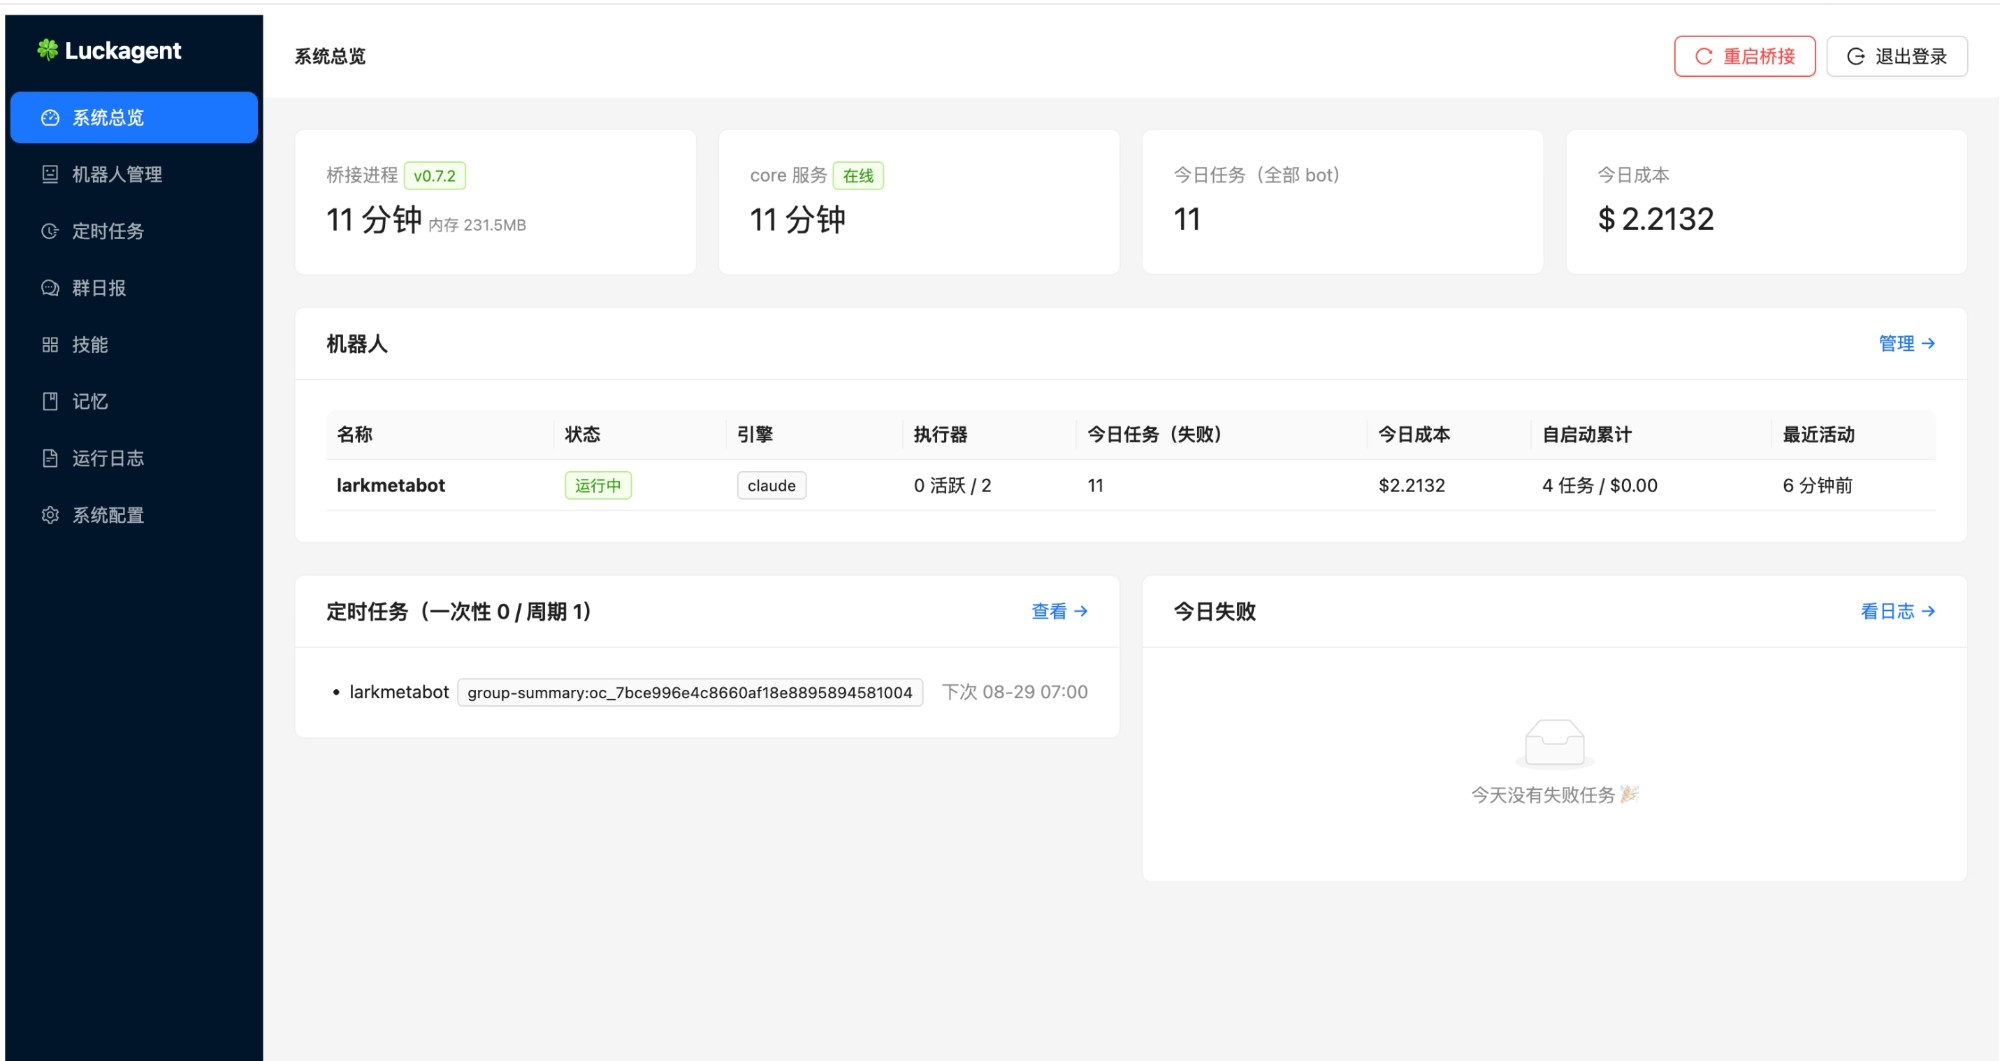
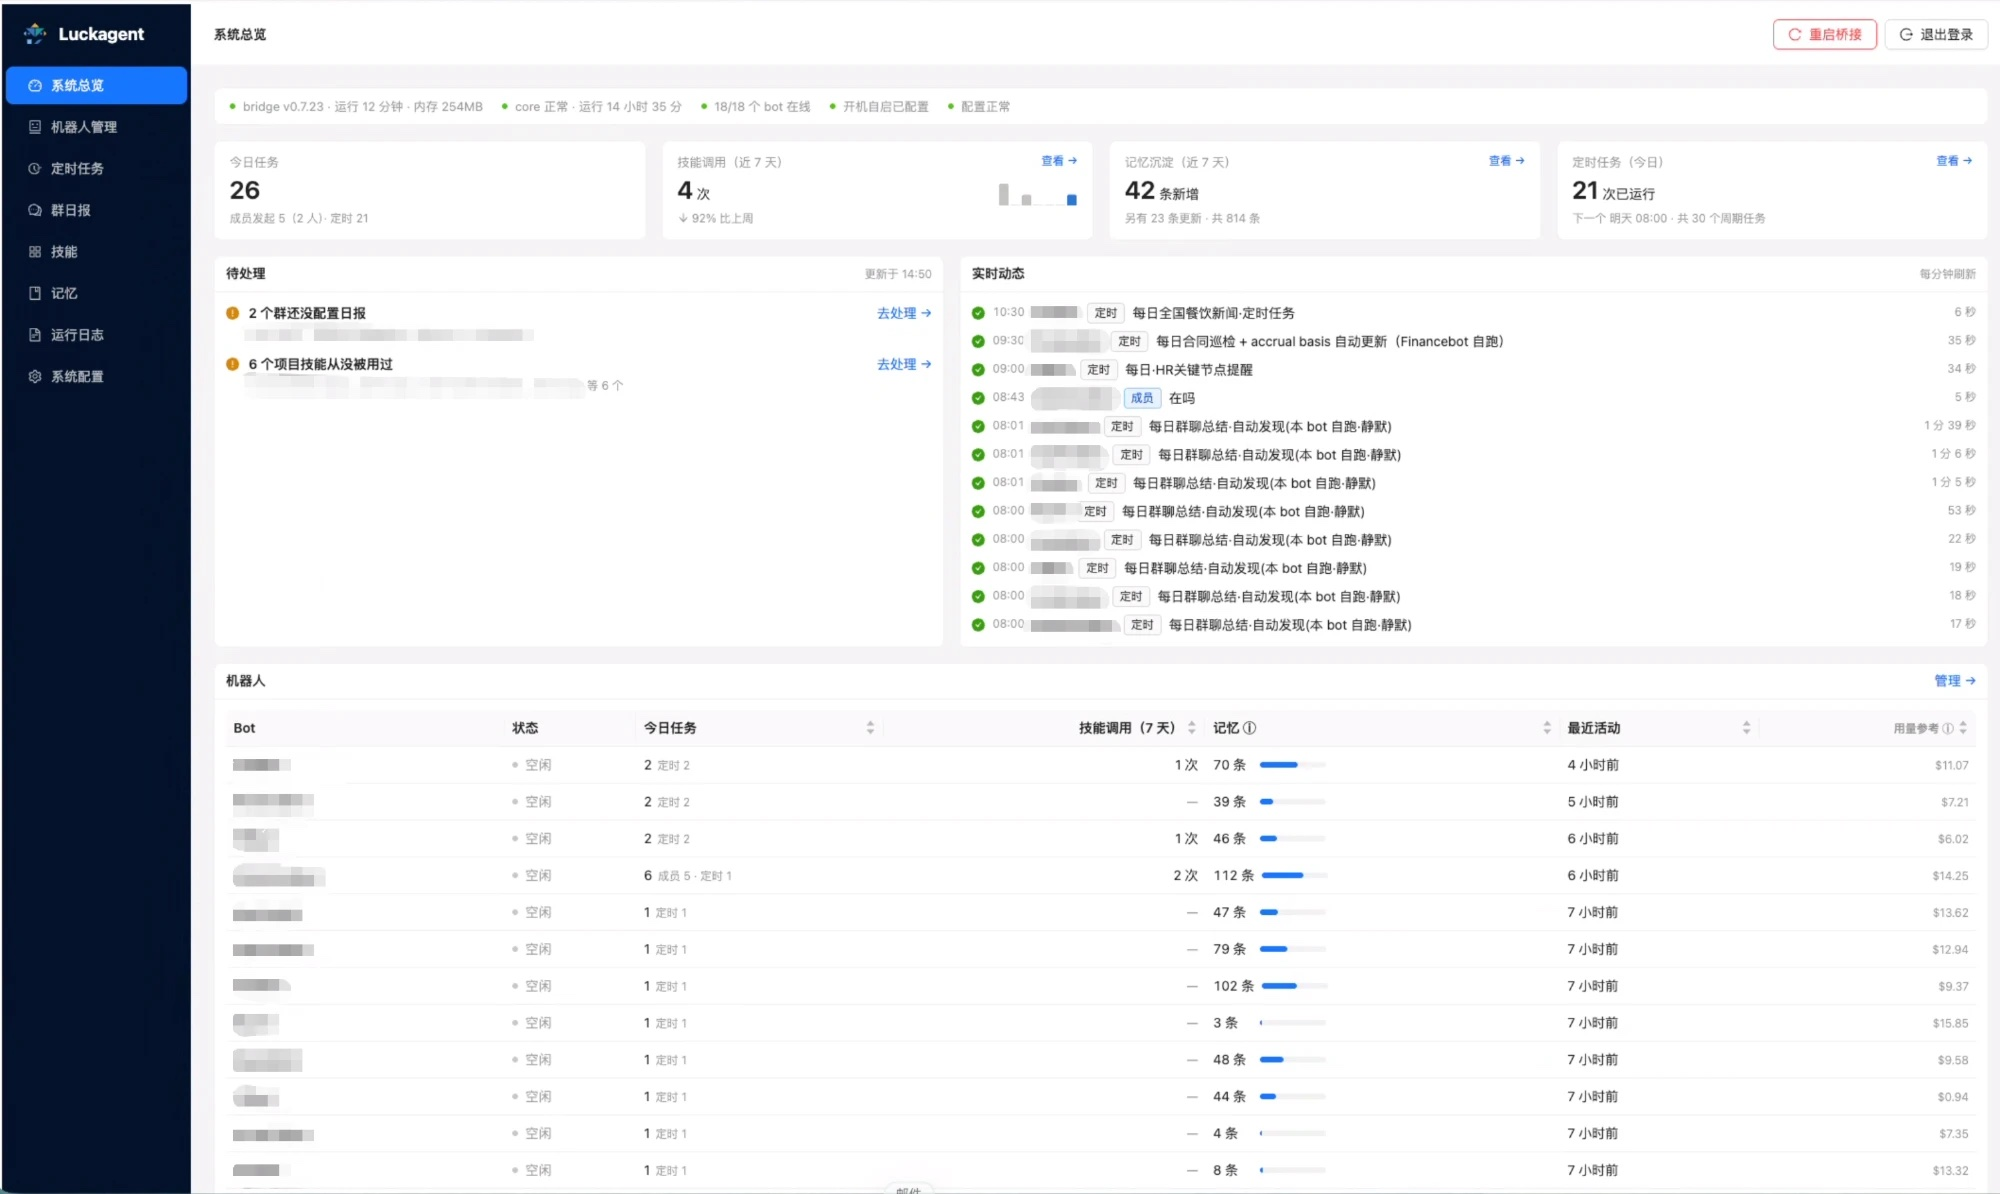
docs: 首页换上改版后的系统总览截图
截图里 bot 名、群名、技能名已打码；README 的图片说明同步改为新版总览的内容。

diff --git a/README.md b/README.md
@@ -27,11 +27,11 @@
   </tr>
   <tr>
     <td valign="top"><img src="docs/images/feishu-chat.jpg" alt="飞书端：@bot 生图，Complete 卡片带上下文/费用/模型页脚，产物直接回群"></td>
-    <td valign="top"><img src="docs/images/admin-console.jpg" alt="管理台系统总览：进程状态、今日任务与成本、机器人列表、定时任务"></td>
+    <td valign="top"><img src="docs/images/admin-console.jpg" alt="管理台系统总览：系统状态条、今日任务 / 技能调用 / 记忆沉淀 / 定时任务卡片、待处理、实时动态、机器人列表"></td>
   </tr>
 </table>
 
-左：@机器人说「做一张喵咪图」，bot 跑完贴出 Complete 卡片（页脚是真实的上下文用量 / 费用 / 服役模型），生成的图片直接发进群。右：管理台系统总览——桥接与 core 进程状态、今日任务数与成本、每个 bot 的引擎与执行器状态、定时任务（图中是一条群日报）。
+左：@机器人说「做一张喵咪图」，bot 跑完贴出 Complete 卡片（页脚是真实的上下文用量 / 费用 / 服役模型），生成的图片直接发进群。右：管理台系统总览——顶部一行系统状态，四张卡片看今日任务（成员发起 / 定时）、近 7 天技能调用、记忆沉淀与定时任务；「待处理」汇总需要处理的事，「实时动态」是最近的任务流，下方每个 bot 的状态、任务、技能调用与记忆积累（bot 名已打码）。
 
 ## 项目目标
 
